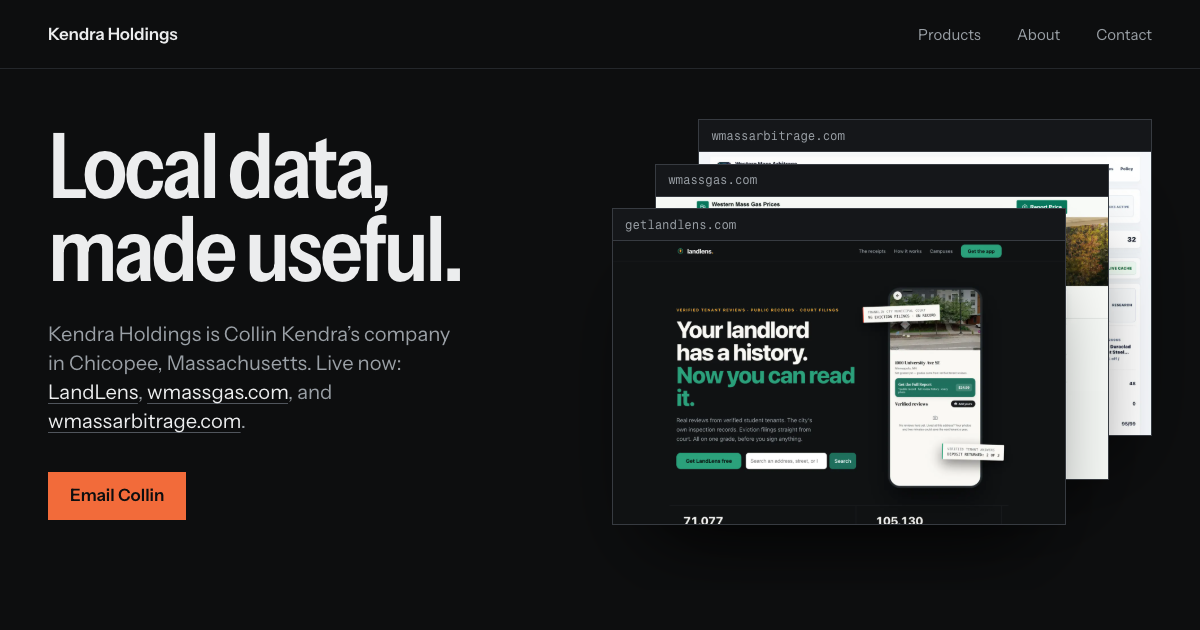
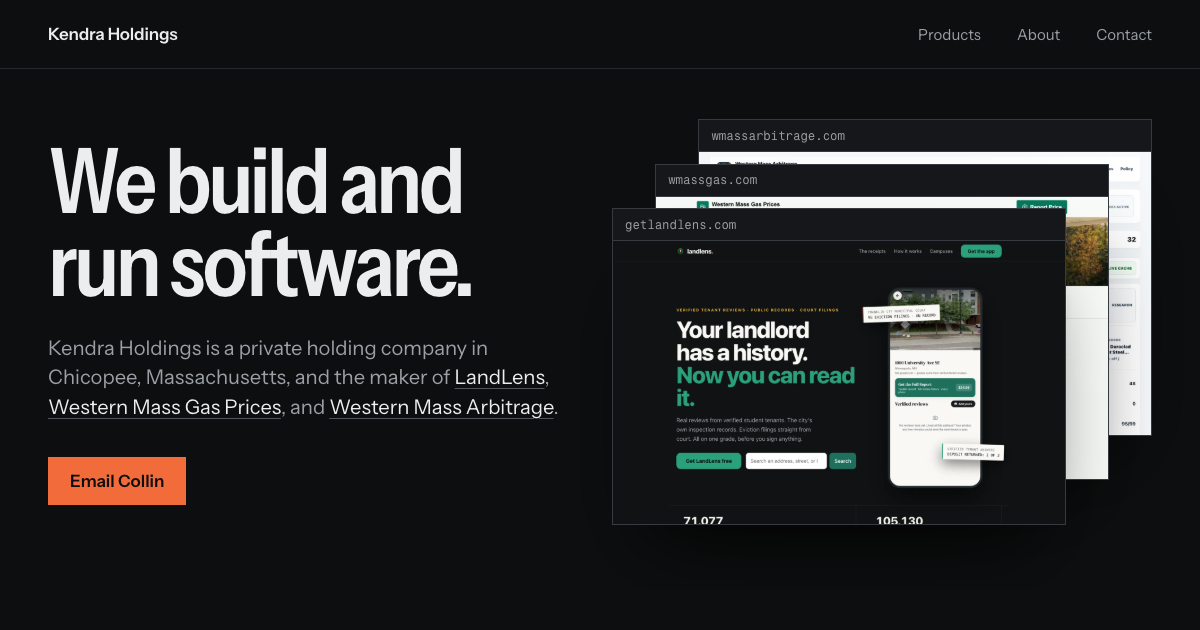
Rewrite site copy and rebuild the about/contact section
Plainer headline and product copy, correct Radd title (Tech Analyst),
and a label/content grid for About and Contact in place of the resume
list and oversized email. Social image re-rendered to match.

Changed region(s): [[0.0308, 0.2111, 0.4008, 0.4825], [0.0308, 0.5127, 0.4625, 0.6937], [0.0308, 0.7238, 0.1542, 0.8444]]

diff --git a/index.html b/index.html
@@ -3,8 +3,8 @@
 <head>
 <meta charset="utf-8">
 <meta name="viewport" content="width=device-width, initial-scale=1">
-<title>Kendra Holdings | LandLens, wmassgas.com, wmassarbitrage.com</title>
-<meta name="description" content="Kendra Holdings is Collin Kendra’s company in Chicopee, Massachusetts. Live now: LandLens, wmassgas.com, and wmassarbitrage.com.">
+<title>Kendra Holdings</title>
+<meta name="description" content="Kendra Holdings is a private holding company in Chicopee, Massachusetts, and the maker of LandLens, Western Mass Gas Prices, and Western Mass Arbitrage.">
 <link rel="canonical" href="https://kendraholdings.io/">
 <meta name="color-scheme" content="dark">
 <meta name="theme-color" content="#0d0e0f">
@@ -12,7 +12,7 @@
 <meta property="og:url" content="https://kendraholdings.io/">
 <meta property="og:site_name" content="Kendra Holdings">
 <meta property="og:title" content="Kendra Holdings">
-<meta property="og:description" content="Local data, made useful. Live now: LandLens, wmassgas.com, and wmassarbitrage.com.">
+<meta property="og:description" content="Kendra Holdings is a private holding company in Chicopee, Massachusetts, and the maker of LandLens, Western Mass Gas Prices, and Western Mass Arbitrage.">
 <meta property="og:image" content="https://kendraholdings.io/og.png">
 <meta property="og:image:width" content="1200">
 <meta property="og:image:height" content="630">
@@ -73,8 +73,8 @@ ul,ol{list-style:none;padding:0}
 .hero{align-items:center;padding-block:clamp(48px,8vh,96px) clamp(80px,12vh,136px)}
 .hero-copy{grid-column:1/span 6}
 h1{font-size:clamp(3.5rem,1.9rem + 5vw,6.5rem);line-height:.92;letter-spacing:-.04em}
-.lede{margin-top:28px;max-width:31ch;font-size:clamp(1.125rem,1rem + .35vw,1.3125rem);line-height:1.45;color:var(--muted)}
-.lede a{color:var(--text);text-decoration-color:var(--line-hover);transition:text-decoration-color .2s}
+.lede{margin-top:28px;max-width:38ch;font-size:clamp(1.125rem,1rem + .35vw,1.3125rem);line-height:1.45;color:var(--muted)}
+.lede a{white-space:nowrap;color:var(--text);text-decoration-color:var(--line-hover);transition:text-decoration-color .2s}
 .lede a:is(:hover,:focus-visible){text-decoration-color:var(--accent)}
 .btn{display:inline-flex;align-items:center;height:48px;margin-top:36px;padding-inline:22px;background:var(--accent);color:var(--bg);font-weight:600;text-decoration:none;transition:background .2s,transform .2s var(--ease)}
 .btn:hover{background:var(--accent-hover)}
@@ -111,41 +111,33 @@ h1{font-size:clamp(3.5rem,1.9rem + 5vw,6.5rem);line-height:.92;letter-spacing:-.
 .pair{display:grid;grid-template-columns:7fr 5fr;gap:clamp(24px,4vw,64px);margin-top:clamp(96px,11vw,160px)}
 .pair .info{margin-top:28px}
 
-/* about */
+/* about + contact: label column, content column, first baselines aligned */
 .about,.contact,.foot{border-top:1px solid var(--line)}
-.about .grid{padding-block:clamp(96px,12vw,176px)}
-.bio{grid-column:1/span 6}
-.about h2{font-size:clamp(2.5rem,1.7rem + 2.6vw,4.25rem)}
-.title{margin-top:12px;font-family:var(--mono);font-size:.875rem;color:var(--muted)}
-.bio p + p{margin-top:20px}
-.title + p{margin-top:32px}
-.bio p:not(.title){max-width:44ch;font-size:1.125rem}
-.cv{grid-column:8/-1;align-self:end}
-.cv li{display:grid;grid-template-columns:6.5rem 1fr;column-gap:20px;padding-block:16px}
-.cv li + li{border-top:1px solid var(--line)}
-.yr{padding-top:3px;font-family:var(--mono);font-size:.8125rem;color:var(--muted);font-variant-numeric:tabular-nums}
-.what{display:block;font-size:.9375rem;color:var(--muted)}
-
-/* contact */
-.contact .wrap{padding-block:clamp(96px,13vw,200px)}
-.email{display:inline-block;font-size:clamp(1.5rem,.45rem + 5.6vw,6rem);font-weight:600;font-stretch:84%;letter-spacing:-.04em;line-height:1.05;text-decoration-thickness:.045em;text-underline-offset:.14em;text-decoration-color:var(--line-hover);transition:text-decoration-color .25s}
-.email:hover{text-decoration-color:var(--accent)}
-.where{display:flex;flex-wrap:wrap;gap:8px 28px;margin-top:28px;color:var(--muted)}
-.where a{color:var(--text);text-decoration-color:var(--line-hover)}
-.where a:hover{text-decoration-color:var(--accent)}
+.row{align-items:baseline;padding-block:clamp(64px,8vw,112px)}
+.label{grid-column:1/span 3;font-size:1rem;font-weight:500;font-stretch:100%;letter-spacing:0;line-height:1.4;color:var(--muted)}
+.body{grid-column:4/-1}
+.statement{max-width:36ch;font-size:clamp(1.375rem,1rem + 1.2vw,2.125rem);font-weight:500;line-height:1.25;letter-spacing:-.02em}
+.statement span{color:var(--muted)}
+.contacts{display:grid;grid-template-columns:1.4fr 1fr 1fr;gap:28px 32px}
+.contacts dt{font-family:var(--mono);font-size:.8125rem;color:var(--muted)}
+.contacts dd{margin-top:8px;font-size:clamp(1.0625rem,.95rem + .4vw,1.3125rem)}
+.contacts a,.foot a{text-decoration-color:var(--line-hover);transition:text-decoration-color .2s}
+.contacts a:hover,.foot a:hover{text-decoration-color:var(--accent)}
 .foot .wrap{display:flex;justify-content:space-between;gap:16px;padding-block:28px;font-size:.875rem;color:var(--muted)}
 
 @media (min-width:1024px){
   .pair > :last-child{margin-top:clamp(0px,9vw,150px)}
 }
 @media (max-width:1023px){
-  .hero-copy,.stack,.feature .frame,.feature .info,.bio,.cv{grid-column:1/-1}
+  .hero-copy,.stack,.feature .frame,.feature .info{grid-column:1/-1}
   .stack{max-width:720px;width:100%;margin-top:56px}
   .feature .info{margin-top:32px}
-  .cv{margin-top:48px}
+  .contacts{grid-template-columns:1fr}
 }
 @media (max-width:767px){
   .pair{grid-template-columns:1fr}
+  .label,.body{grid-column:1/-1}
+  .body{margin-top:20px}
 }
 @media (max-width:479px){
   .nav li:not(:last-child){display:none}
@@ -183,8 +175,8 @@ h1{font-size:clamp(3.5rem,1.9rem + 5vw,6.5rem);line-height:.92;letter-spacing:-.
 <main id="main">
   <section class="hero wrap grid" aria-labelledby="hero-h">
     <div class="hero-copy">
-      <h1 id="hero-h">Local data, made useful.</h1>
-      <p class="lede">Kendra Holdings is Collin Kendra’s company in Chicopee, Massachusetts. Live now: <a href="#landlens" data-p="ll">LandLens</a>, <a href="#wmassgas" data-p="gas">wmassgas.com</a>, and <a href="#wmassarbitrage" data-p="arb">wmassarbitrage.com</a>.</p>
+      <h1 id="hero-h">We build and run software.</h1>
+      <p class="lede">Kendra Holdings is a private holding company in Chicopee, Massachusetts, and the maker of <a href="#landlens" data-p="ll">LandLens</a>, <a href="#wmassgas" data-p="gas">Western Mass Gas Prices</a>, and <a href="#wmassarbitrage" data-p="arb">Western Mass Arbitrage</a>.</p>
       <a class="btn" href="mailto:collin@kendraholdings.io">Email Collin</a>
     </div>
     <div class="stack" aria-hidden="true">
@@ -204,13 +196,13 @@ h1{font-size:clamp(3.5rem,1.9rem + 5vw,6.5rem);line-height:.92;letter-spacing:-.
       </a>
       <div class="info">
         <h3>LandLens</h3>
-        <p>Verified student reviews, city inspection records, and court eviction filings for college rentals, combined into one grade before you sign a lease.</p>
+        <p>Grades college rentals using verified student reviews, city inspection records, and court eviction filings, so students and parents can check a place before signing a lease.</p>
         <dl class="facts">
           <div><dt>College rentals</dt><dd>70,000+</dd></div>
           <div><dt>States</dt><dd>18</dd></div>
           <div><dt>Launched</dt><dd>Sep 2026</dd></div>
         </dl>
-        <p>Built and run by Kendra Holdings. On iOS and Android.</p>
+        <p>Available on iOS, Android, and the web.</p>
         <a class="go" href="https://getlandlens.com">getlandlens.com<svg class="i" aria-hidden="true"><use href="#i-arrow"/></svg></a>
       </div>
     </article>
@@ -223,7 +215,7 @@ h1{font-size:clamp(3.5rem,1.9rem + 5vw,6.5rem);line-height:.92;letter-spacing:-.
         </a>
         <div class="info">
           <h3>Western Mass Gas Prices</h3>
-          <p>The cheapest pump prices in Western Massachusetts, sorted by town and fuel type. Free to use.</p>
+          <p>Current gas prices across Western Massachusetts, sorted by town and fuel grade. Free to use.</p>
           <dl class="facts">
             <div><dt>Towns</dt><dd>39</dd></div>
             <div><dt>Counties</dt><dd>4</dd></div>
@@ -240,9 +232,9 @@ h1{font-size:clamp(3.5rem,1.9rem + 5vw,6.5rem);line-height:.92;letter-spacing:-.
         </a>
         <div class="info">
           <h3>Western Mass Arbitrage</h3>
-          <p>Finds underpriced products at stores near Chicopee, checks that they are in stock, and models the resale price.</p>
+          <p>Finds discounted products at nearby stores, confirms they are in stock, and estimates their resale value.</p>
           <dl class="facts">
-            <div><dt>Search radius</dt><dd>35 mi</dd></div>
+            <div><dt>Search radius</dt><dd>35 miles</dd></div>
             <div><dt>Launched</dt><dd>2026</dd></div>
           </dl>
           <a class="go" href="https://wmassarbitrage.com">wmassarbitrage.com<svg class="i" aria-hidden="true"><use href="#i-arrow"/></svg></a>
@@ -252,29 +244,20 @@ h1{font-size:clamp(3.5rem,1.9rem + 5vw,6.5rem);line-height:.92;letter-spacing:-.
   </section>
 
   <section id="about" class="about" aria-labelledby="about-h">
-    <div class="wrap grid">
-      <div class="bio">
-        <h2 id="about-h">Collin Kendra</h2>
-        <p class="title">Principal, Kendra Holdings</p>
-        <p>I build products out of public records and local data, and I keep running them after launch.</p>
-        <p>I also work in technology operations at Radd Payment Solutions in Northampton, where I built the systems behind its payment operations: payout intake, reconciliation, accounting, and the client portal.</p>
-      </div>
-      <ol class="cv" aria-label="Experience">
-        <li><span class="yr">Since 2026</span><span>Kendra Holdings<span class="what">Principal</span></span></li>
-        <li><span class="yr">Since 2026</span><span>LandLens<span class="what">Co-founder</span></span></li>
-        <li><span class="yr">Since 2026</span><span>Radd Payment Solutions<span class="what">Technology operations</span></span></li>
-        <li><span class="yr">Since 2025</span><span>CNAX AI<span class="what">Co-founder</span></span></li>
-        <li><span class="yr">2023-2026</span><span>Sunpointe Investments<span class="what">Portfolio analysis</span></span></li>
-        <li><span class="yr">2025</span><span>Merrimack College<span class="what">BBA, Finance</span></span></li>
-      </ol>
+    <div class="wrap grid row">
+      <h2 id="about-h" class="label">About</h2>
+      <p class="body statement">Kendra Holdings was founded in 2026 by Collin Kendra, who builds and runs its products. <span>He is also a co-founder of LandLens and CNAX AI, a Tech Analyst at Radd Payment Solutions, and a Merrimack College graduate with a BBA in Finance.</span></p>
     </div>
   </section>
 
   <section id="contact" class="contact" aria-labelledby="contact-h">
-    <div class="wrap">
-      <h2 id="contact-h" class="sr-only">Contact</h2>
-      <a class="email" href="mailto:collin@kendraholdings.io">collin@kendraholdings.io</a>
-      <p class="where"><span>Chicopee, Massachusetts</span><a href="https://www.linkedin.com/in/ckend">LinkedIn</a></p>
+    <div class="wrap grid row">
+      <h2 id="contact-h" class="label">Contact</h2>
+      <dl class="body contacts">
+        <div><dt>Email</dt><dd><a href="mailto:collin@kendraholdings.io">collin@kendraholdings.io</a></dd></div>
+        <div><dt>LinkedIn</dt><dd><a href="https://www.linkedin.com/in/ckend">linkedin.com/in/ckend</a></dd></div>
+        <div><dt>Location</dt><dd>Chicopee, Massachusetts</dd></div>
+      </dl>
     </div>
   </section>
 </main>
@@ -282,6 +265,7 @@ h1{font-size:clamp(3.5rem,1.9rem + 5vw,6.5rem);line-height:.92;letter-spacing:-.
 <footer class="foot">
   <div class="wrap">
     <span>© 2026 Kendra Holdings LLC</span>
+    <a href="#main">Back to top</a>
   </div>
 </footer>
 </body>
